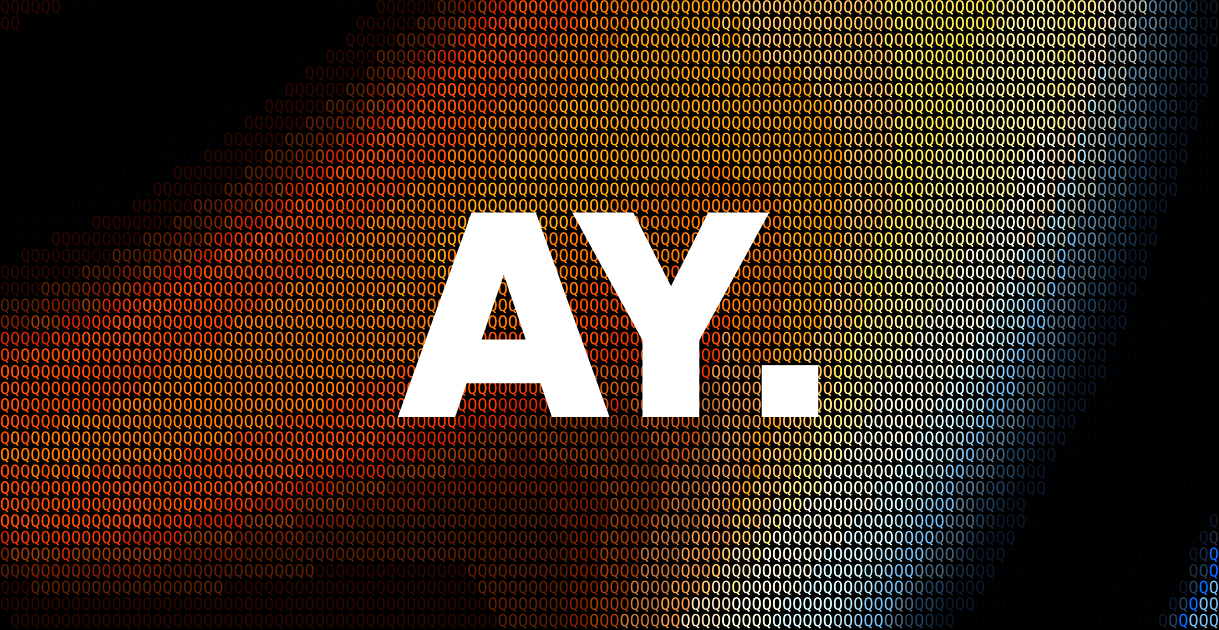
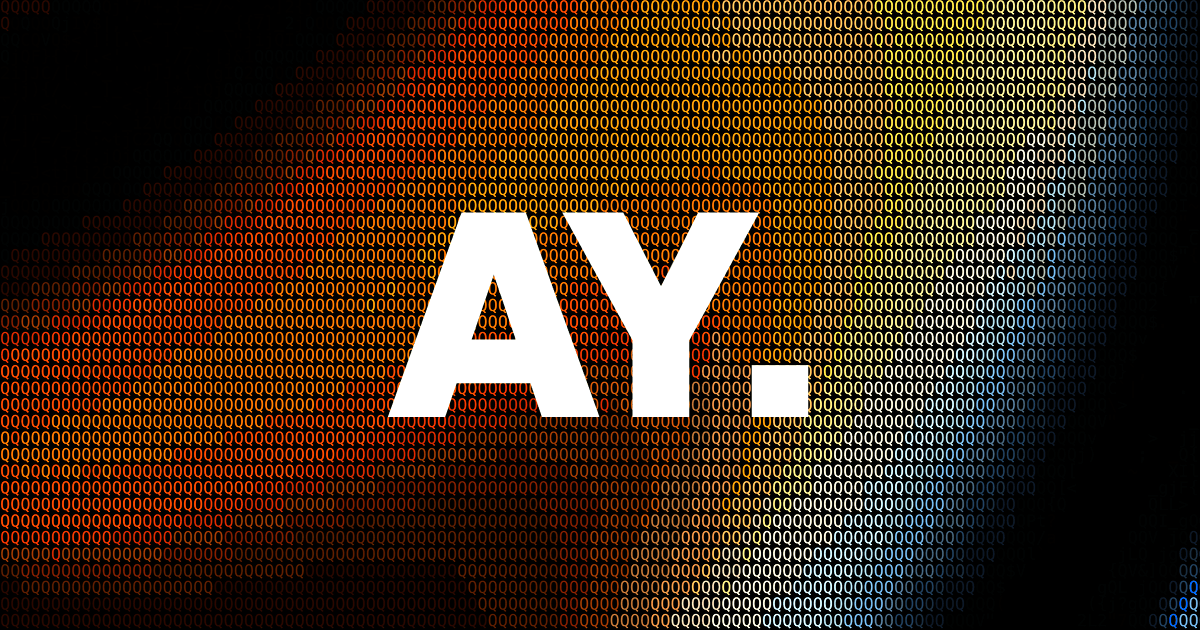
fix: shorten preview metadata and optimize social image

diff --git a/app/layout.tsx b/app/layout.tsx
@@ -11,7 +11,7 @@ import {
   ROOT_THEME_ATTRIBUTE,
 } from "@/lib/browserChrome";
 import { SITE_URL } from "@/lib/site";
-import { SITE_OG_IMAGE } from "@/lib/metadata";
+import { SITE_DESCRIPTION, SITE_NAME, SITE_OG_IMAGE, SITE_TITLE } from "@/lib/metadata";
 import "@/styles/globals.scss";
 
 const screenBody = Geist({
@@ -26,21 +26,20 @@ const fontVariables = `${GeistPixelGrid.variable} ${GeistPixelSquare.variable} $
 
 export const metadata: Metadata = {
   metadataBase: new URL(SITE_URL),
-  title: "Alexander Yansons | Independent Developer & Creative Technologist",
-  description: "Portfolio of Alexander Yansons. Custom websites, e-commerce, portfolios, and product interfaces for brands, studios, and product teams.",
+  title: SITE_TITLE,
+  description: SITE_DESCRIPTION,
   openGraph: {
-    title: "Alexander Yansons | Independent Developer & Creative Technologist",
-    description:
-      "Portfolio of Alexander Yansons. Custom websites, e-commerce, portfolios, and product interfaces for brands, studios, and product teams.",
+    title: SITE_TITLE,
+    description: SITE_DESCRIPTION,
+    siteName: SITE_NAME,
     type: "website",
     url: SITE_URL,
     images: [SITE_OG_IMAGE],
   },
   twitter: {
     card: "summary_large_image",
-    title: "Alexander Yansons | Independent Developer & Creative Technologist",
-    description:
-      "Portfolio of Alexander Yansons. Custom websites, e-commerce, portfolios, and product interfaces for brands, studios, and product teams.",
+    title: SITE_TITLE,
+    description: SITE_DESCRIPTION,
     images: [SITE_OG_IMAGE.url],
   },
 };

diff --git a/app/(site)/page.tsx b/app/(site)/page.tsx
@@ -5,7 +5,7 @@ import { ContactSectionGooey } from "@/components/sections/Contact/ContactSectio
 import { HeroSection } from "@/components/sections/Hero/HeroSection";
 import { WorkSection } from "@/components/sections/Work/WorkSection";
 import { SITE_LAST_UPDATED, SITE_URL } from "@/lib/site";
-import { SITE_OG_IMAGE } from "@/lib/metadata";
+import { SITE_DESCRIPTION, SITE_NAME, SITE_OG_IMAGE, SITE_TITLE } from "@/lib/metadata";
 import { HeroRevealTimelineProvider } from "@/lib/heroRevealTimeline";
 import type { Metadata } from "next";
 
@@ -14,9 +14,17 @@ export const metadata: Metadata = {
     canonical: "/",
   },
   openGraph: {
+    title: SITE_TITLE,
+    description: SITE_DESCRIPTION,
+    siteName: SITE_NAME,
+    type: "website",
+    url: SITE_URL,
     images: [SITE_OG_IMAGE],
   },
   twitter: {
+    card: "summary_large_image",
+    title: SITE_TITLE,
+    description: SITE_DESCRIPTION,
     images: [SITE_OG_IMAGE.url],
   },
 };

diff --git a/app/(site)/projects/[slug]/page.tsx b/app/(site)/projects/[slug]/page.tsx
@@ -2,7 +2,7 @@ import dynamic from "next/dynamic";
 import type { Metadata } from "next";
 import { notFound } from "next/navigation";
 import { getProjectBySlug, getProjectSiblings, projects } from "@/content/projects";
-import { projectShareDescription, projectShareOgImage } from "@/lib/metadata";
+import { projectShareDescription, projectShareOgImage, SITE_NAME } from "@/lib/metadata";
 import { SITE_LAST_UPDATED, SITE_URL } from "@/lib/site";
 
 const ProjectPage = dynamic(() =>
@@ -38,6 +38,7 @@ export async function generateMetadata({ params }: RouteProps): Promise<Metadata
       canonical,
     },
     openGraph: {
+      siteName: SITE_NAME,
       title: `${project.title} | Alexander Y.`,
       description,
       type: "article",

diff --git a/app/(site)/archive/page.tsx b/app/(site)/archive/page.tsx
@@ -1,7 +1,7 @@
 import type { Metadata } from "next";
 import { ArchiveCanvas } from "@/components/Archive/ArchiveCanvas";
 import { archiveEntries } from "@/content/archive/archive-data";
-import { clampMetaDescription, SITE_OG_IMAGE } from "@/lib/metadata";
+import { clampMetaDescription, SITE_NAME, SITE_OG_IMAGE } from "@/lib/metadata";
 import { SITE_LAST_UPDATED, SITE_URL } from "@/lib/site";
 
 const archiveDescription = clampMetaDescription(
@@ -15,6 +15,7 @@ export const metadata: Metadata = {
     canonical: "/archive",
   },
   openGraph: {
+    siteName: SITE_NAME,
     title: "Archive · Alexander Yansons",
     description: archiveDescription,
     type: "website",

diff --git a/app/(site)/projects/page.tsx b/app/(site)/projects/page.tsx
@@ -1,7 +1,7 @@
 import type { Metadata } from "next";
 import { ProjectsIndex } from "@/components/projects/ProjectsIndex/ProjectsIndex";
 import { parseProjectFilter, projects } from "@/content/projects";
-import { clampMetaDescription, SITE_OG_IMAGE } from "@/lib/metadata";
+import { clampMetaDescription, SITE_NAME, SITE_OG_IMAGE } from "@/lib/metadata";
 import { SITE_LAST_UPDATED, SITE_URL } from "@/lib/site";
 
 type ProjectsIndexRouteProps = {
@@ -19,6 +19,7 @@ export const metadata: Metadata = {
     canonical: "/projects",
   },
   openGraph: {
+    siteName: SITE_NAME,
     title: "Work · Alexander Yansons",
     description: projectsDescription,
     type: "website",

diff --git a/lib/metadata.ts b/lib/metadata.ts
@@ -3,6 +3,11 @@ import { SITE_URL } from "@/lib/site";
 
 const META_DESC_MAX = 160;
 
+export const SITE_NAME = "Alexander Yansons";
+export const SITE_TITLE = "Alexander Yansons | Developer & Creative Technologist";
+export const SITE_DESCRIPTION =
+  "Custom websites, e-commerce, portfolios, and product interfaces by Alexander Yansons for brands, studios, and teams.";
+
 /** Shared Open Graph / Twitter Card image — file must exist at `public/og.png`. */
 export const SITE_OG_IMAGE = {
   url: "/og.png",
